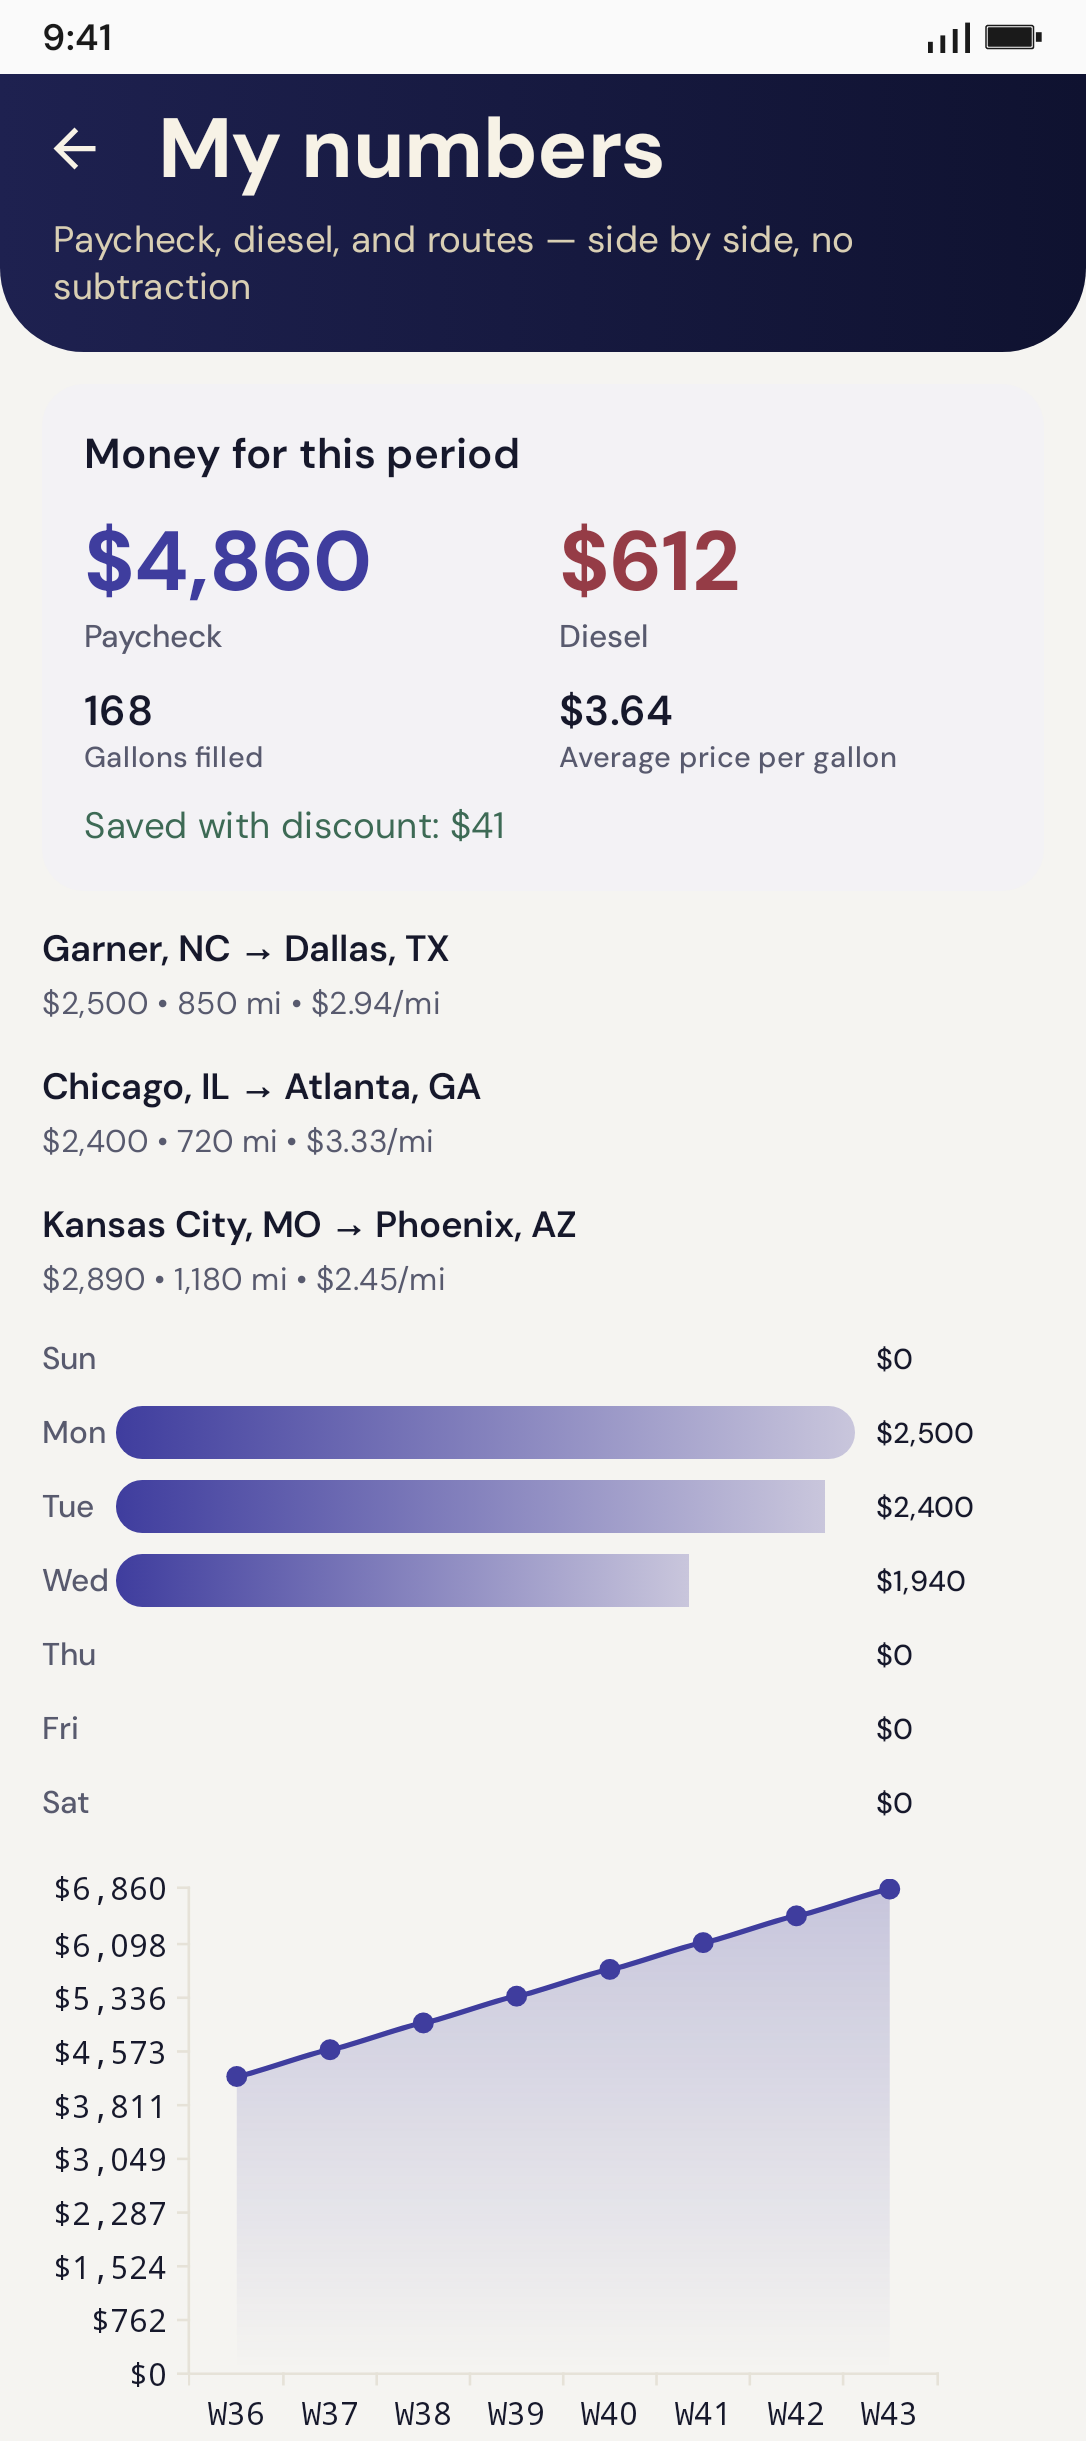
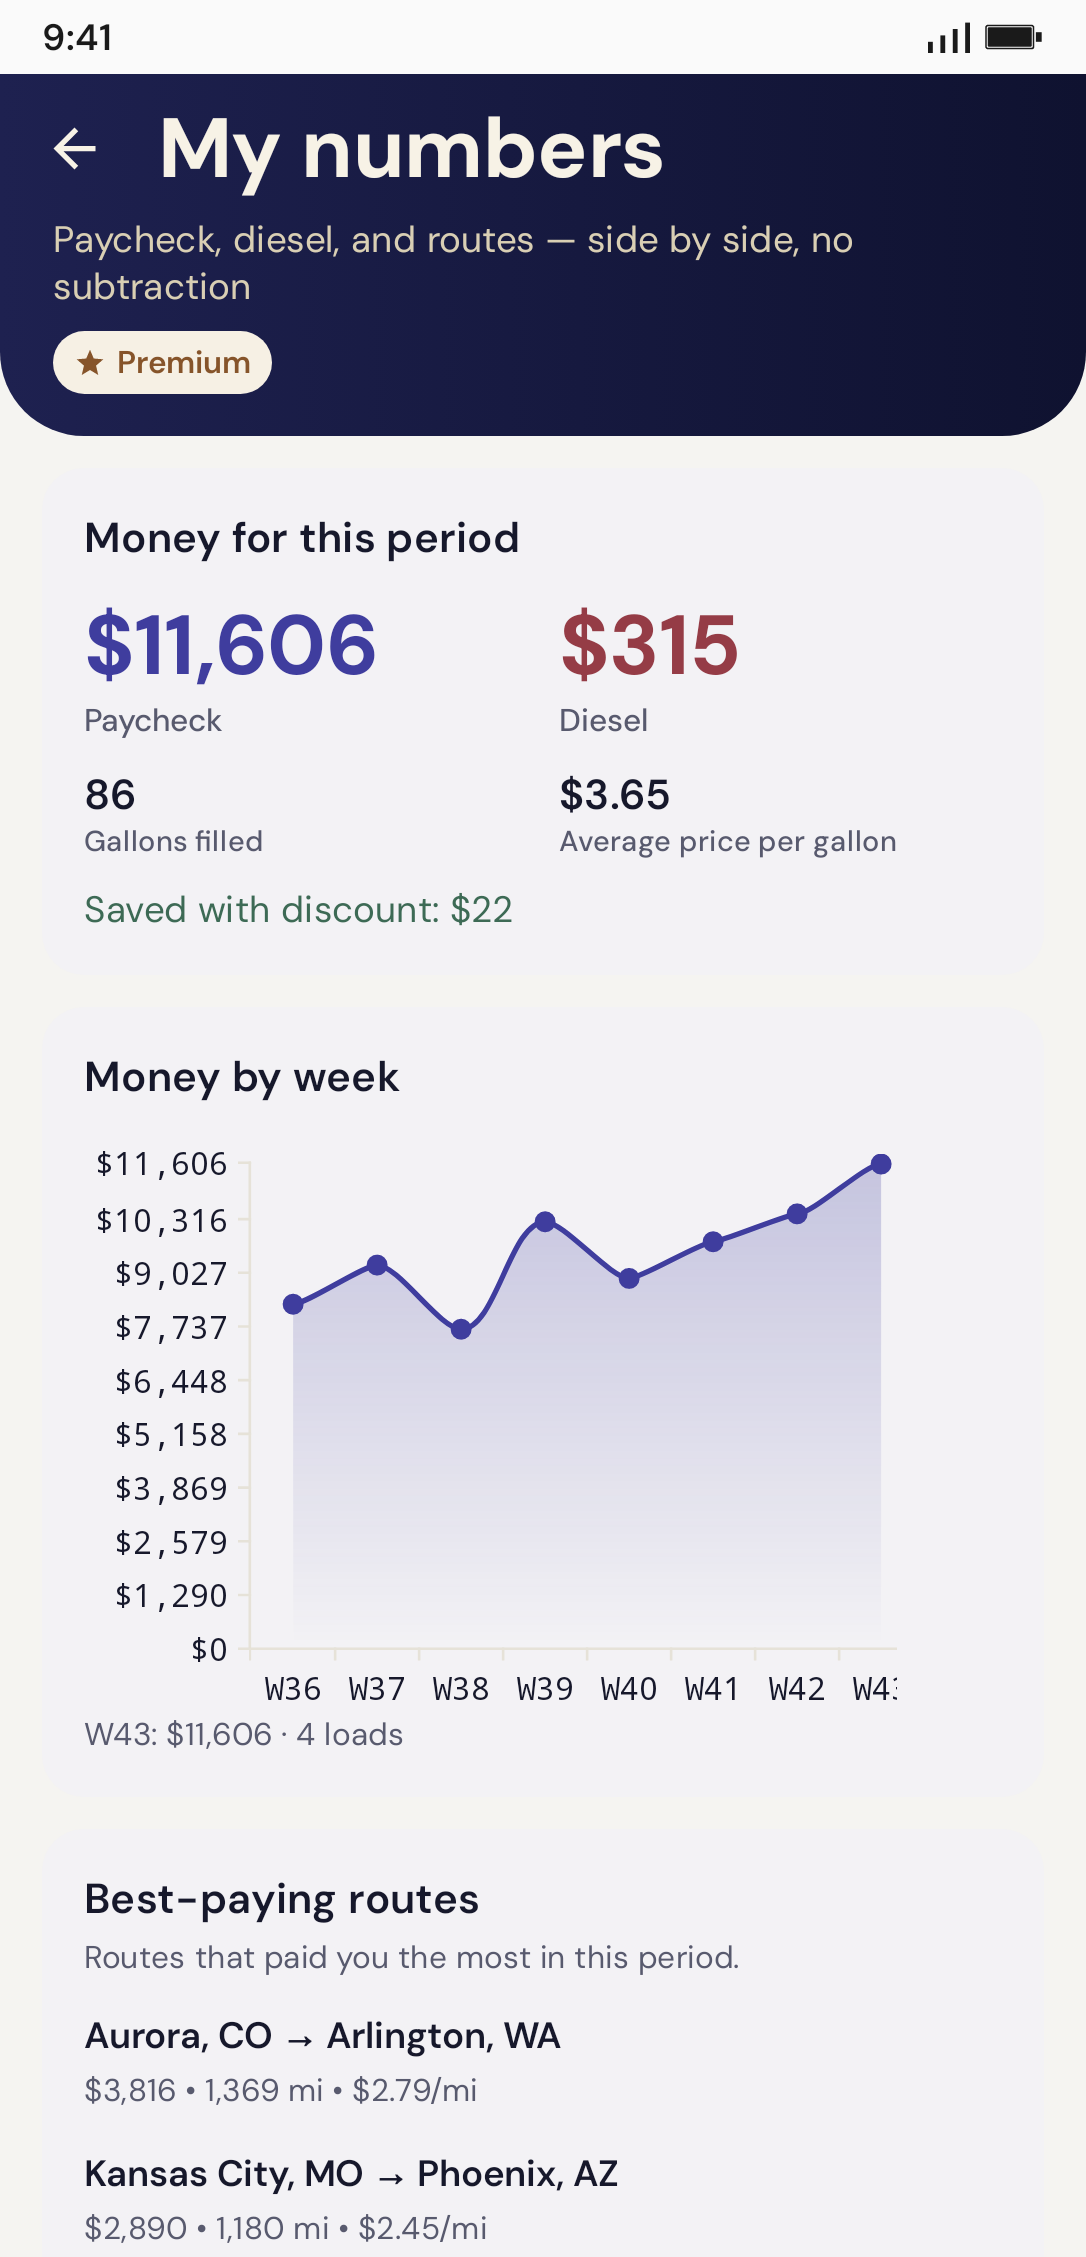
Add English Play frames for Premium.
The paywall and analytics shots use the same Robolectric capture and Midnight & Gold phone plate as the existing English listing. The caption reads "First month free" and "Then $2.99/month". Both frames are 1080×1920 PNG.

diff --git a/truckerload/app/src/test/java/com/truckerload/presentation/store/PlayListingCaptureTest.kt b/truckerload/app/src/test/java/com/truckerload/presentation/store/PlayListingCaptureTest.kt
@@ -205,6 +205,10 @@ class PlayListingCaptureTest {
             "photo" to @Composable { PlayCamera(photo, previewMaxEdgePx = 2048) },
             "scanner" to @Composable { PlayScanFrame(scan, page) },
             "maintenance" to @Composable { PlayMaintenance() },
+            "premium" to @Composable { PlayPaywall() },
+            "analytics" to @Composable {
+                PlayPremiumAnalytics(playPremiumFinance(), playPremiumRoutes(), playPremiumWeeks())
+            },
         )
         try {
             shots.forEach { (name, content) ->
@@ -212,6 +216,10 @@ class PlayListingCaptureTest {
                     if (name == "scanner") {
                         val opened = clickLabeled(activity, "recognized")
                         assertTrue("scanner OCR toggle was not clicked", opened)
+                    }
+                    if (name == "premium") {
+                        val copy = waitForPaywall(activity)
+                        assertTrue("paywall stayed on a placeholder: $copy", paywallSettled(copy))
                     }
                 }) { content() }
                 assertListingBitmap(bitmap, minWidth = 1000)
@@ -262,6 +270,8 @@ class PlayListingCaptureTest {
                 Thread.sleep(40)
                 looper.idle()
             }
+        }
+        if (name == "premium" || name == "analytics" || name == "photo") {
             decor.measure(
                 View.MeasureSpec.makeMeasureSpec(width, View.MeasureSpec.EXACTLY),
                 View.MeasureSpec.makeMeasureSpec(height, View.MeasureSpec.EXACTLY),
@@ -367,6 +377,48 @@ class PlayListingCaptureTest {
         assertTrue("sampled $indigo/$samples pixels of legacy indigo #5B54E6", indigo * 20 < samples)
     }
 
+    private fun waitForPaywall(activity: Activity): String {
+        // Play Billing posts the product-details timeout (~28.5s) on the main looper.
+        // There is no Play Store in this test, so that timeout is what lets the real
+        // paywall leave "Loading the Play price…" and show "Try 1 month free".
+        val looper = shadowOf(Looper.getMainLooper())
+        val scheduler = Robolectric.getForegroundThreadScheduler()
+        var copy = ""
+        repeat(8) {
+            // The billing client can deliver the timeout and the failed query together.
+            // The first result settles the button; the second resume is ignored.
+            runCatching { scheduler.advanceBy(5, TimeUnit.SECONDS) }
+            runCatching { looper.idle() }
+            looper.idle()
+            copy = semanticsText(activity)
+            if (paywallSettled(copy)) return copy
+        }
+        return copy
+    }
+
+    private fun paywallSettled(copy: String): Boolean {
+        val loading = copy.contains("Loading the Play price", ignoreCase = true)
+        val offer = copy.contains("Try 1 month free", ignoreCase = true) ||
+            copy.contains("Subscribe", ignoreCase = true)
+        return !loading && offer && copy.contains("Premium") && copy.contains("2.99")
+    }
+
+    private fun semanticsText(activity: Activity): String {
+        val compose = findComposeView(activity.window.decorView) ?: return ""
+        val owner = semanticsOwner(compose) ?: return ""
+        val root = owner.javaClass.methods.firstOrNull { method ->
+            method.parameterCount == 0 && method.name == "getUnmergedRootSemanticsNode"
+        }?.invoke(owner) as? SemanticsNode ?: return ""
+        val parts = ArrayList<String>()
+        fun walk(node: SemanticsNode) {
+            node.config.getOrNull(SemanticsProperties.Text)?.forEach { parts += it.text }
+            node.config.getOrNull(SemanticsProperties.ContentDescription)?.forEach { parts += it }
+            node.children.forEach { child -> walk(child) }
+        }
+        walk(root)
+        return parts.joinToString("\n")
+    }
+
     private fun clickLabeled(activity: Activity, label: String): Boolean {
         val compose = findComposeView(activity.window.decorView) ?: return false
         val owner = semanticsOwner(compose) ?: return false
@@ -450,6 +502,30 @@ class PlayListingCaptureTest {
         rawExtractedText = "Pilot Travel Center\n86.400 gal\n3.649",
         sourceFileName = "receipt-amarillo.jpg",
         addedAt = 1_760_864_460_000L,
+    )
+
+    private fun playPremiumFinance(): PeriodFinance = PeriodFinance(
+        paycheckTotal = 11_605.90,
+        dieselTotal = 315.27,
+        dieselGallons = 86.4,
+        dieselSavings = 21.60,
+    )
+
+    private fun playPremiumRoutes(): List<RouteData> = listOf(
+        RouteData("Aurora, CO", "Arlington, WA", "Aurora, CO → Arlington, WA", 3815.90, 1369.0, 1, 2.79),
+        RouteData("Kansas City, MO", "Phoenix, AZ", "Kansas City, MO → Phoenix, AZ", 2890.0, 1180.0, 1, 2.45),
+        RouteData("Garner, NC", "Dallas, TX", "Garner, NC → Dallas, TX", 2500.0, 850.0, 1, 2.94),
+    )
+
+    private fun playPremiumWeeks(): List<WeekData> = listOf(
+        WeekData(36, 2026, "W36", 8_240.0, 2_910.0, 3),
+        WeekData(37, 2026, "W37", 9_180.0, 3_240.0, 3),
+        WeekData(38, 2026, "W38", 7_640.0, 2_880.0, 3),
+        WeekData(39, 2026, "W39", 10_220.0, 3_510.0, 4),
+        WeekData(40, 2026, "W40", 8_860.0, 3_020.0, 3),
+        WeekData(41, 2026, "W41", 9_740.0, 3_360.0, 3),
+        WeekData(42, 2026, "W42", 10_410.0, 3_480.0, 4),
+        WeekData(43, 2026, "W43", 11_605.90, 4_119.0, 4),
     )
 }
 

diff --git a/truckerload/app/src/test/java/com/truckerload/presentation/store/PlayListingScreens.kt b/truckerload/app/src/test/java/com/truckerload/presentation/store/PlayListingScreens.kt
@@ -50,7 +50,9 @@ import com.truckerload.domain.model.analytics.RouteData
 import com.truckerload.domain.model.analytics.WeekData
 import com.truckerload.domain.money.Money
 import com.truckerload.domain.money.UnitPrice
+import com.truckerload.domain.premium.PremiumFeature
 import com.truckerload.presentation.components.DashboardHero
+import com.truckerload.presentation.components.DashboardPremiumTag
 import com.truckerload.presentation.components.LoadCard
 import com.truckerload.presentation.components.OneUiBottomActionBar
 import com.truckerload.presentation.components.TlButton
@@ -65,6 +67,7 @@ import com.truckerload.presentation.screens.add.AddLoadManualForm
 import com.truckerload.presentation.screens.add.AddLoadModeSelector
 import com.truckerload.presentation.screens.add.DieselAmountFields
 import com.truckerload.presentation.screens.add.ManualLoadFields
+import com.truckerload.presentation.premium.PaywallScreen
 import com.truckerload.presentation.screens.analytics.AnalyticsFinanceSection
 import com.truckerload.presentation.screens.auth.TelegramOnboardingScreen
 import com.truckerload.presentation.screens.camera.CapturedPhoto
@@ -83,6 +86,7 @@ import com.truckerload.presentation.screens.social.ProfileNavRow
 import com.truckerload.presentation.screens.social.ProfileSectionHeader
 import com.truckerload.presentation.screens.social.ProfileTotals
 import com.truckerload.presentation.theme.BentoGlassScreenBackground
+import com.truckerload.presentation.theme.BentoGlassCard
 import com.truckerload.presentation.theme.LocalBrandPalette
 import com.truckerload.utils.LocationData
 import java.io.File
@@ -374,6 +378,83 @@ internal fun PlayAnalytics(finance: PeriodFinance, routes: List<RouteData>, week
             TopRoutesBarChart(routes = routes)
             DailyDistributionChart(dailyData = days)
             WeeklyRevenueLineChart(weeks = weeks, selectedIndex = weeks.lastIndex, onWeekSelected = {})
+            Spacer(Modifier.height(24.dp))
+        }
+    }
+}
+
+/** Real paywall. The offer headline and price live in the marketing caption. */
+@Composable
+internal fun PlayPaywall() {
+    PaywallScreen(feature = PremiumFeature.ANALYTICS, onBack = {})
+}
+
+/**
+ * Analytics with the unlocked Premium tag. Figures match the English week
+ * already on the dashboard and the home-screen widget.
+ */
+@Composable
+internal fun PlayPremiumAnalytics(
+    finance: PeriodFinance,
+    routes: List<RouteData>,
+    weeks: List<WeekData>,
+) {
+    Column(
+        modifier = Modifier
+            .fillMaxSize()
+            .background(LocalBrandPalette.current.page)
+            .verticalScroll(rememberScrollState()),
+        verticalArrangement = Arrangement.spacedBy(12.dp),
+    ) {
+        DashboardHero(
+            title = stringResource(R.string.analytics_title),
+            subtitle = stringResource(R.string.analytics_subtitle),
+            showBack = true,
+            onBack = {},
+        ) {
+            DashboardPremiumTag(
+                locked = false,
+                modifier = Modifier.padding(start = 20.dp, top = 8.dp),
+            )
+        }
+        Column(modifier = Modifier.padding(horizontal = 16.dp), verticalArrangement = Arrangement.spacedBy(12.dp)) {
+            AnalyticsFinanceSection(finance = finance)
+            BentoGlassCard(modifier = Modifier.fillMaxWidth()) {
+                Column(modifier = Modifier.padding(16.dp)) {
+                    Text(
+                        text = stringResource(R.string.analytics_weekly_revenue),
+                        style = MaterialTheme.typography.titleMedium,
+                        color = LocalBrandPalette.current.textPrimary,
+                        fontWeight = FontWeight.SemiBold,
+                    )
+                    WeeklyRevenueLineChart(
+                        weeks = weeks,
+                        selectedIndex = weeks.lastIndex,
+                        onWeekSelected = {},
+                        modifier = Modifier.padding(top = 12.dp),
+                    )
+                }
+            }
+            BentoGlassCard(modifier = Modifier.fillMaxWidth()) {
+                Column(modifier = Modifier.padding(16.dp)) {
+                    Text(
+                        text = stringResource(R.string.analytics_top_routes),
+                        style = MaterialTheme.typography.titleMedium,
+                        color = LocalBrandPalette.current.textPrimary,
+                        fontWeight = FontWeight.SemiBold,
+                    )
+                    Text(
+                        text = stringResource(R.string.analytics_top_routes_hint),
+                        style = MaterialTheme.typography.bodySmall,
+                        color = LocalBrandPalette.current.textSecondary,
+                        modifier = Modifier.padding(top = 4.dp),
+                    )
+                    TopRoutesBarChart(
+                        routes = routes,
+                        modifier = Modifier.padding(top = 12.dp),
+                    )
+                }
+            }
             Spacer(Modifier.height(24.dp))
         }
     }

diff --git a/truckerload/store/google-play/templates/screenshots.html b/truckerload/store/google-play/templates/screenshots.html
@@ -1073,6 +1073,10 @@
         scannerP: "Rate confirmation, text included",
         maintenanceH: "Service, on time",
         maintenanceP: "Mileage and dates, before they are due",
+        premiumH: "First month free",
+        premiumP: "Then $2.99/month",
+        analyticsH: "Premium numbers",
+        analyticsP: "Paycheck, diesel, and the routes that paid",
         telegramH: "Telegram in — journal out",
         telegramP: "Forward a load to the bot. Import HTML or text to restore your history",
         dieselH: "Diesel in seconds",
@@ -1416,6 +1420,8 @@
       dashboard: [t.dashboardH || t.journalH, t.dashboardP || t.journalP],
       photo: [t.photoH || t.cameraH, t.photoP || t.cameraP],
       maintenance: [t.maintenanceH || t.goalH, t.maintenanceP || t.goalP],
+      premium: [t.premiumH || "First month free", t.premiumP || "Then $2.99/month"],
+      analytics: [t.analyticsH || t.analytics, t.analyticsP || t.analyticsSub],
     };
 
     function liveShot(name) {

diff --git a/truckerload/docs/play-store-screenshots-en/07-analytics.html b/truckerload/docs/play-store-screenshots-en/07-analytics.html
@@ -1,0 +1,13 @@
+<!DOCTYPE html>
+<html lang="en">
+<head>
+  <meta charset="UTF-8" />
+  <title>Premium numbers</title>
+  <link rel="stylesheet" href="styles.css" />
+</head>
+<body>
+  <div class="shot">
+    <img class="live-ui" alt="" src="../../store/google-play/phone-en/07_analytics.png" />
+  </div>
+</body>
+</html>

diff --git a/truckerload/docs/play-store-screenshots-en/06-premium.html b/truckerload/docs/play-store-screenshots-en/06-premium.html
@@ -1,0 +1,13 @@
+<!DOCTYPE html>
+<html lang="en">
+<head>
+  <meta charset="UTF-8" />
+  <title>First month free</title>
+  <link rel="stylesheet" href="styles.css" />
+</head>
+<body>
+  <div class="shot">
+    <img class="live-ui" alt="" src="../../store/google-play/phone-en/06_premium.png" />
+  </div>
+</body>
+</html>

diff --git a/truckerload/store/google-play/render_screenshots.py b/truckerload/store/google-play/render_screenshots.py
@@ -29,7 +29,7 @@ CHROME_CANDIDATES = [
 CHROME = next((p for p in CHROME_CANDIDATES if p and Path(p).exists()), None)
 
 PHONE_SLIDES = {
-    "en": ["dashboard", "widget", "photo", "scanner", "maintenance"],
+    "en": ["dashboard", "widget", "photo", "scanner", "maintenance", "premium", "analytics"],
     "ru": [
         "journal",
         "widget",
@@ -86,19 +86,33 @@ def file_url(kind: str, lang: str, slide: str | None = None) -> str:
 
 def main() -> int:
     only = set(sys.argv[1:])
+    kinds = {"all", "phone", "tablet", "feature", "en-phone", "ru-phone"}
+    slides = only - kinds
+
+    def wants_phone(lang: str) -> bool:
+        if not only:
+            return True
+        if f"{lang}-phone" in only or "phone" in only or "all" in only:
+            return True
+        # `python3 render_screenshots.py premium` renders that slide only.
+        return bool(slides) and only.isdisjoint(kinds)
+
     jobs: list[tuple[str, Path, tuple[int, int], int]] = []
     for lang, folder in (("ru", "phone-ru"), ("en", "phone-en")):
-        if only and f"{lang}-phone" not in only and "all" not in only and "phone" not in only:
+        if not wants_phone(lang):
             continue
         dest_dir = ROOT / folder
         keep = set()
         for i, slide in enumerate(PHONE_SLIDES[lang], start=1):
+            if slides and slide not in slides:
+                continue
             name = f"{i:02d}_{slide}.png"
             keep.add(name)
             # English frames are shot at 2× and downsampled so captions stay crisp.
             scale = 2 if lang == "en" else 1
             jobs.append((file_url("phone", lang, slide), dest_dir / name, PHONE_SIZE, scale))
-        if dest_dir.is_dir():
+        # A named slide (python3 render_screenshots.py premium) must not delete the rest.
+        if not slides and dest_dir.is_dir():
             for stale in dest_dir.glob("*.png"):
                 if stale.name not in keep:
                     stale.unlink()

diff --git a/truckerload/store/google-play/README.md b/truckerload/store/google-play/README.md
@@ -17,7 +17,7 @@ Phone, 7", and 10" frames use the Midnight & Gold caption plate (`#1E2150` → `
 
 | Asset | Size | Format | Count |
 | --- | --- | --- | --- |
-| Phone screenshots | 1080×1920 (9:16) | 24-bit PNG, no alpha | 5 English, 8 Russian |
+| Phone screenshots | 1080×1920 (9:16) | 24-bit PNG, no alpha | 7 English, 8 Russian |
 | 10" tablet | 1920×1200 (16:9) | 24-bit PNG, no alpha | 1 |
 | 7" tablet | 1200×1920 | 24-bit PNG, no alpha | 1 |
 | Feature graphic | 1024×500 | 24-bit PNG, no alpha | 1 (required) |
@@ -33,7 +33,7 @@ Play Console → **Grow** → **Store presence** → **Main store listing**
 
 1. **App icon** — 512×512 32-bit PNG: `high-res-icon.png` (same plate as the adaptive launcher).
 2. **Feature graphic** — `feature-graphic-en.png`
-3. **Phone screenshots** (order matters; first is the store card) — `phone-en/01_dashboard.png` … `05_maintenance.png`
+3. **Phone screenshots** (order matters; first is the store card) — `phone-en/01_dashboard.png` … `07_analytics.png`
 4. **10" tablet screenshots** — `tablet-10-en/01_journal_landscape.png`
 5. **7" tablet screenshots** — `tablet-7-en/01_journal.png`
 
@@ -53,6 +53,8 @@ Same console page → language **Русский** (add a localized listing if it
 3. Location photo — trip photo with the app’s city, time, and GPS stamp
 4. Document scan — rate confirmation with the recognized text open
 5. Maintenance — mileage and date service reminders
+6. Premium — paywall, first month free, then $2.99/month
+7. Analytics — paycheck, diesel, and routes, with the Premium badge
 
 ## Russian phone set
 

diff --git a/truckerload/store/google-play/PLAY_CONSOLE_RELEASE.md b/truckerload/store/google-play/PLAY_CONSOLE_RELEASE.md
@@ -52,7 +52,7 @@ Confirm:
 | Full description | `…/full-description.txt` |
 | High-res icon | `store/google-play/high-res-icon.png` |
 | Feature graphic | `feature-graphic-en.png` / `feature-graphic-ru.png` |
-| Phone screenshots | `phone-en/` (5) · `phone-ru/` (8) · same English frames in `docs/play-store-screenshots-en/` |
+| Phone screenshots | `phone-en/` (7) · `phone-ru/` (8) · same English frames in `docs/play-store-screenshots-en/` |
 | Tablet | `tablet-10-en/` · `tablet-10-ru/` |
 | What’s new | `RELEASE_NOTES_1.5.11.md` (user-facing section) |
 
